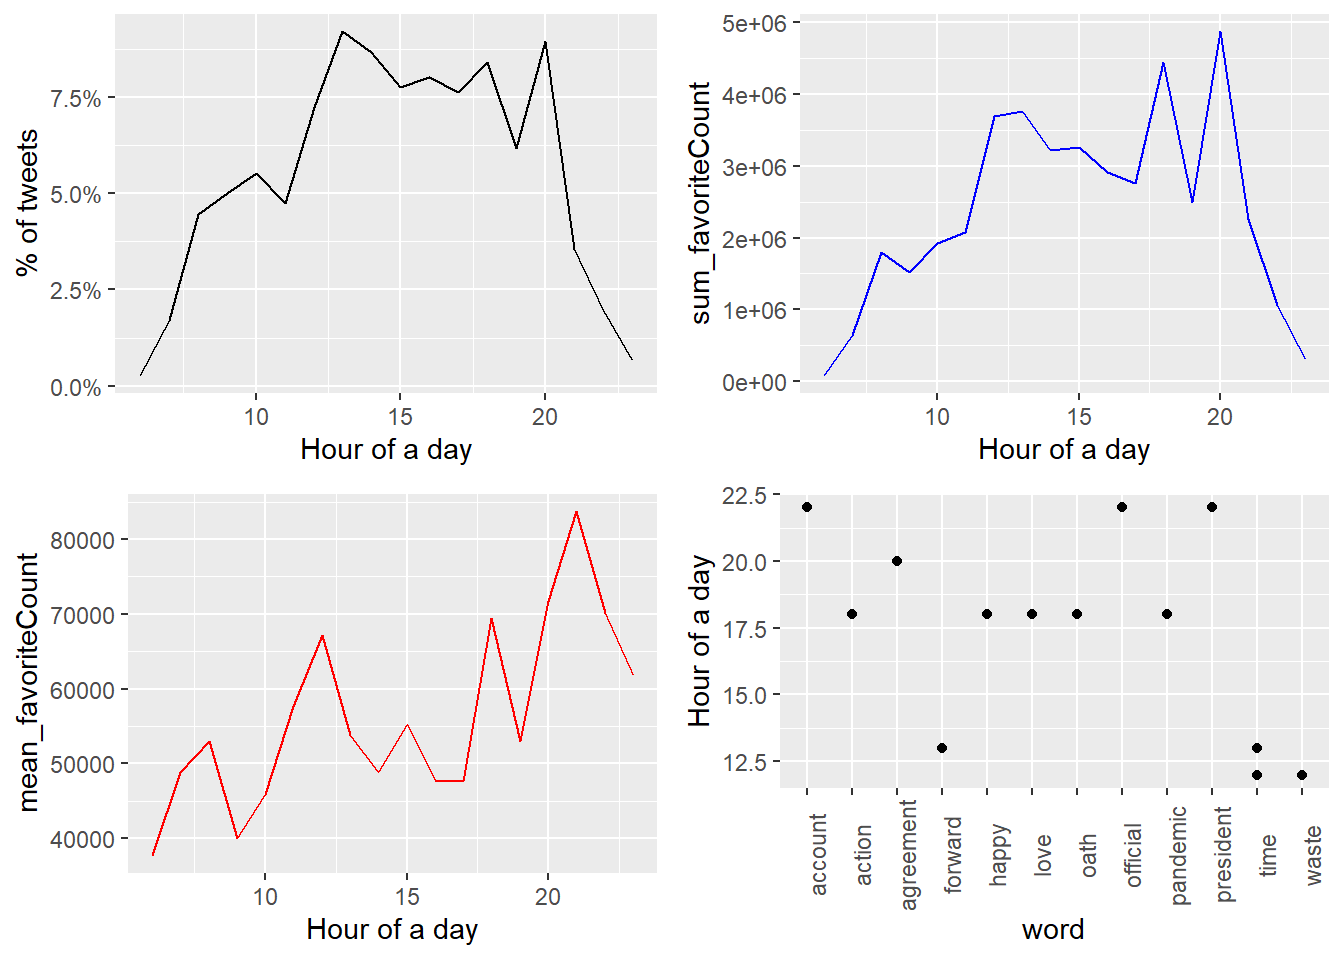
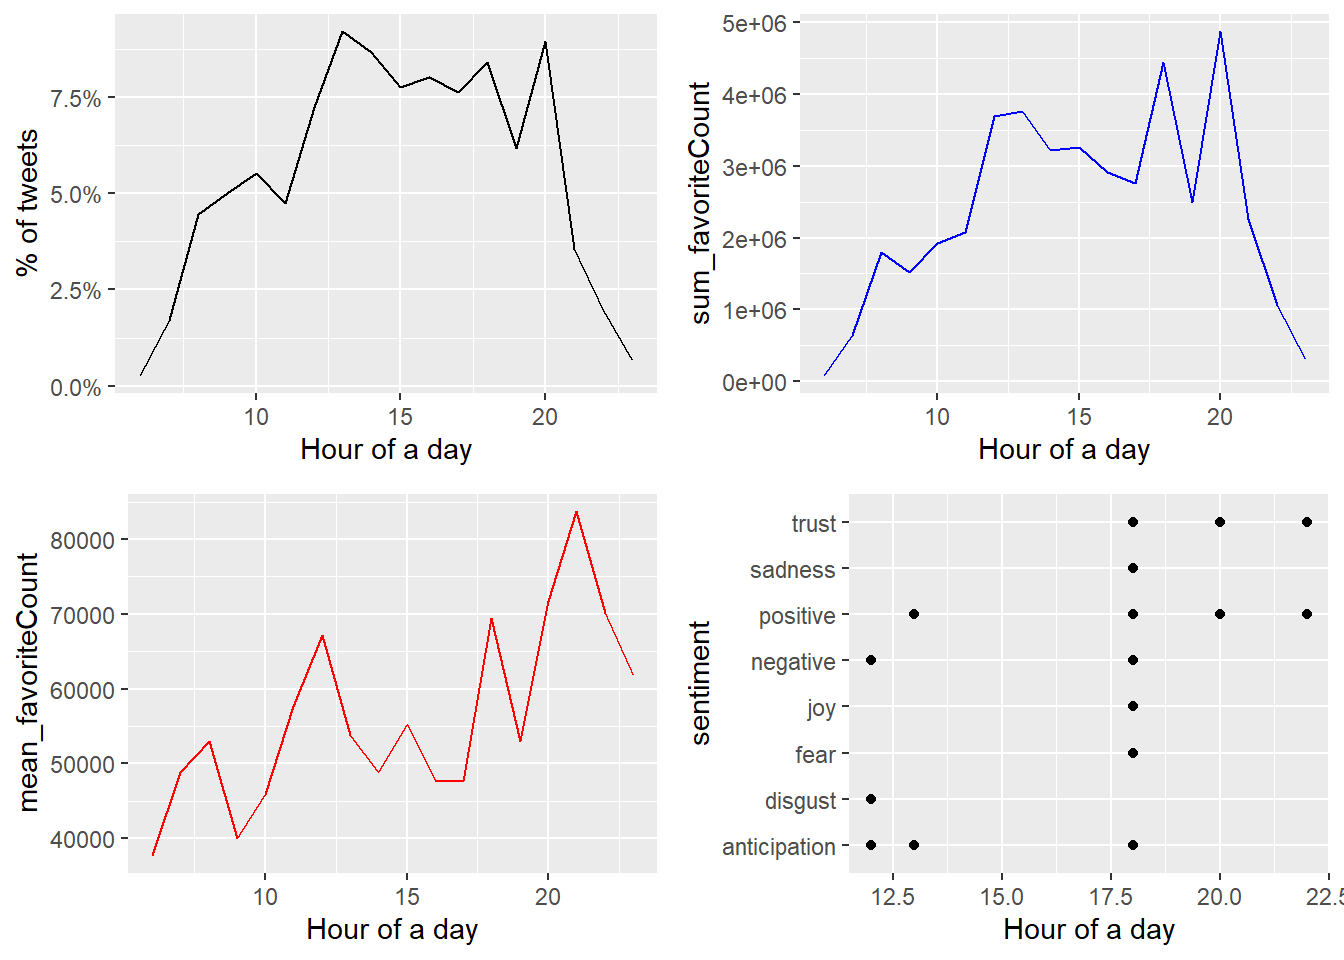
Update

diff --git a/Biden-POTUS-Final-Project.html b/Biden-POTUS-Final-Project.html
@@ -528,9 +528,9 @@ div.tocify {
 <span id="cb5-30"><a href="#cb5-30" aria-hidden="true" tabindex="-1"></a>    <span class="fu">labs</span>(<span class="at">x =</span> <span class="st">&quot;Hour of a day&quot;</span>)</span>
 <span id="cb5-31"><a href="#cb5-31" aria-hidden="true" tabindex="-1"></a></span>
 <span id="cb5-32"><a href="#cb5-32" aria-hidden="true" tabindex="-1"></a>p4 <span class="ot">&lt;-</span> <span class="fu">ggplot</span>(tweeting_hour_20) <span class="sc">+</span></span>
-<span id="cb5-33"><a href="#cb5-33" aria-hidden="true" tabindex="-1"></a>    <span class="fu">geom_point</span>(<span class="fu">aes</span>(<span class="at">x =</span> word, <span class="at">y =</span> hour)) <span class="sc">+</span></span>
-<span id="cb5-34"><a href="#cb5-34" aria-hidden="true" tabindex="-1"></a>    <span class="fu">labs</span>(<span class="at">y =</span> <span class="st">&quot;Hour of a day&quot;</span>) <span class="sc">+</span> </span>
-<span id="cb5-35"><a href="#cb5-35" aria-hidden="true" tabindex="-1"></a>    <span class="fu">theme</span>(<span class="at">axis.text.x =</span> <span class="fu">element_text</span>(<span class="at">angle =</span> <span class="dv">90</span>))</span>
+<span id="cb5-33"><a href="#cb5-33" aria-hidden="true" tabindex="-1"></a>    <span class="fu">geom_point</span>(<span class="fu">aes</span>(<span class="at">x =</span> hour, <span class="at">y =</span> sentiment)) <span class="sc">+</span></span>
+<span id="cb5-34"><a href="#cb5-34" aria-hidden="true" tabindex="-1"></a>    <span class="fu">labs</span>(<span class="at">x =</span> <span class="st">&quot;Hour of a day&quot;</span>)</span>
+<span id="cb5-35"><a href="#cb5-35" aria-hidden="true" tabindex="-1"></a>    </span>
 <span id="cb5-36"><a href="#cb5-36" aria-hidden="true" tabindex="-1"></a></span>
 <span id="cb5-37"><a href="#cb5-37" aria-hidden="true" tabindex="-1"></a><span class="fu">plot_grid</span>(p1, p2, p3, p4, <span class="at">ncol =</span> <span class="dv">2</span>)</span></code></pre></div>
 <p><img src="Biden-POTUS-Final-Project_files/figure-html/unnamed-chunk-4-1.png" width="672" /></p>
